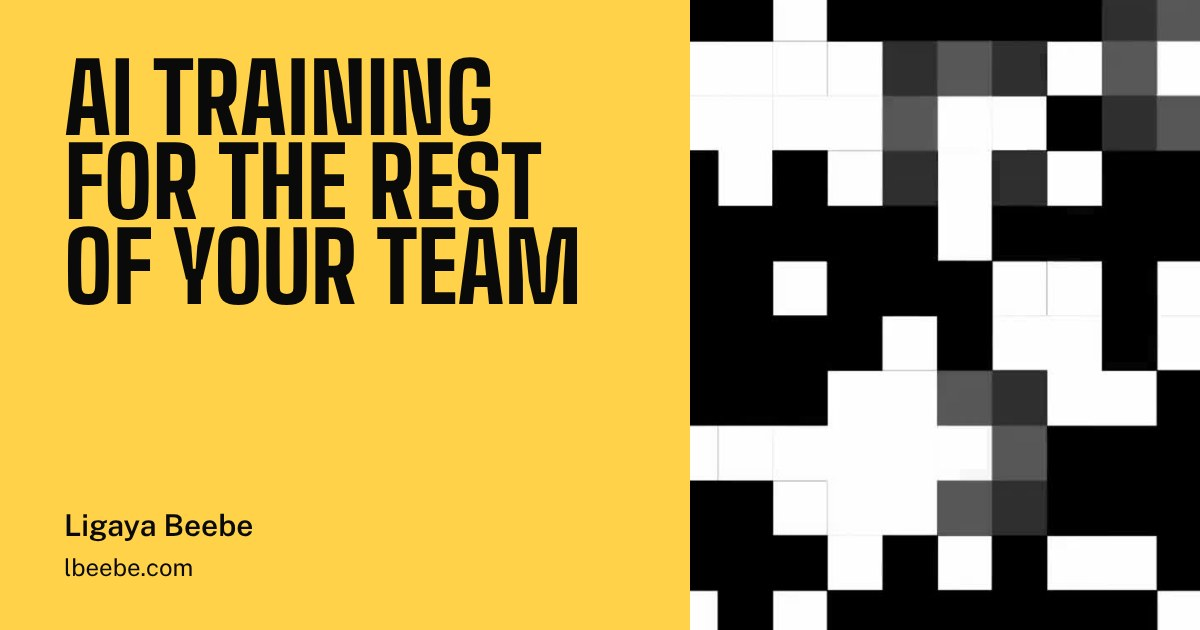
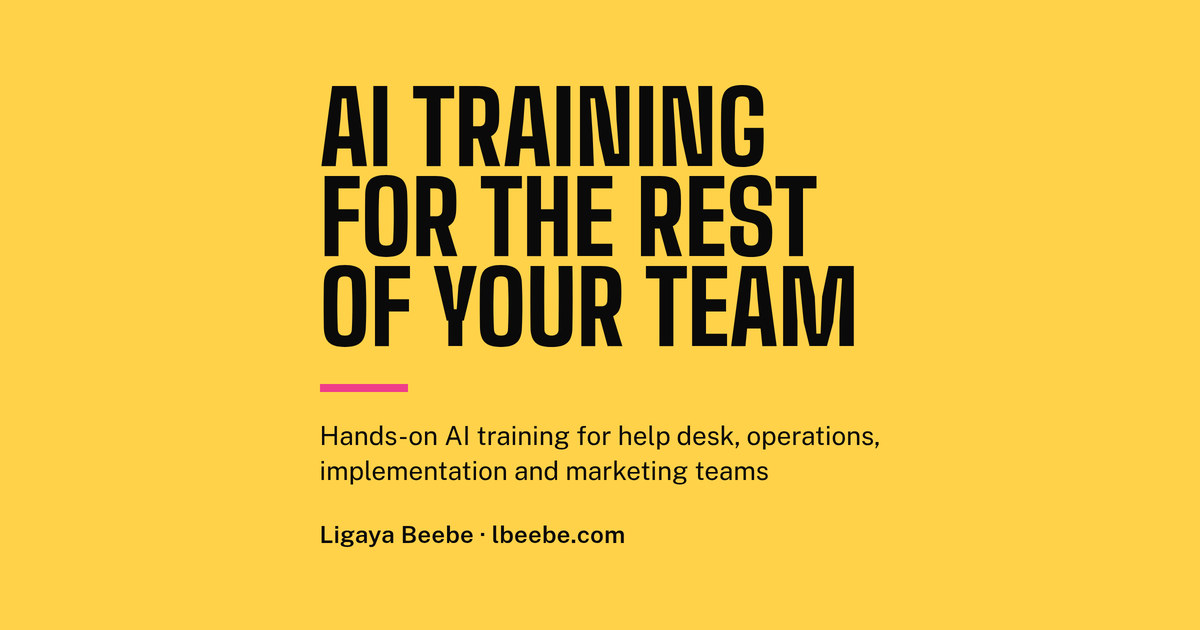
New share card: type-only, no grid; cache-bust og:image

diff --git a/index.html b/index.html
@@ -20,7 +20,7 @@
 <meta property="og:url" content="https://lbeebe.com/">
 <meta property="og:title" content="L. Beebe, LLC · AI Enablement & Training for Non-Technical Teams">
 <meta property="og:description" content="Your dev team gets it. Now, everyone else. Ligaya Beebe trains help desk, operations, implementation and marketing teams to use AI well, hands-on and built around their real work.">
-<meta property="og:image" content="https://lbeebe.com/og-card.jpg">
+<meta property="og:image" content="https://lbeebe.com/og-card.jpg?v=2026-11-16">
 <meta property="og:image:width" content="1200">
 <meta property="og:image:height" content="630">
 <meta property="og:image:alt" content="AI training for the rest of your team. Ligaya Beebe, lbeebe.com">
@@ -32,7 +32,7 @@
 <meta name="twitter:url" content="https://lbeebe.com/">
 <meta name="twitter:title" content="L. Beebe, LLC · AI Enablement & Training for Non-Technical Teams">
 <meta name="twitter:description" content="Your dev team gets it. Now, everyone else. Ligaya Beebe trains help desk, operations, implementation and marketing teams to use AI well, hands-on and built around their real work.">
-<meta name="twitter:image" content="https://lbeebe.com/og-card.jpg">
+<meta name="twitter:image" content="https://lbeebe.com/og-card.jpg?v=2026-11-16">
 <meta name="twitter:image:alt" content="AI training for the rest of your team. Ligaya Beebe, lbeebe.com">
 
 <!-- Structured Data: who Ligaya is, what she offers, and her work (read by search engines and AI agents) -->

diff --git a/hire.html b/hire.html
@@ -25,7 +25,7 @@
 <meta property="og:url" content="https://lbeebe.com/hire">
 <meta property="og:title" content="Ligaya Beebe · Open to the right role">
 <meta property="og:description" content="AI enablement lead, L&amp;D or instructional design manager, AI program manager. PMP, MindStudio Level 3, nine years leading programs.">
-<meta property="og:image" content="https://lbeebe.com/og-card.jpg">
+<meta property="og:image" content="https://lbeebe.com/og-card.jpg?v=2026-11-16">
 <meta name="twitter:card" content="summary_large_image">
 <meta name="theme-color" content="#15130f">
 <link rel="preconnect" href="https://fonts.googleapis.com">
